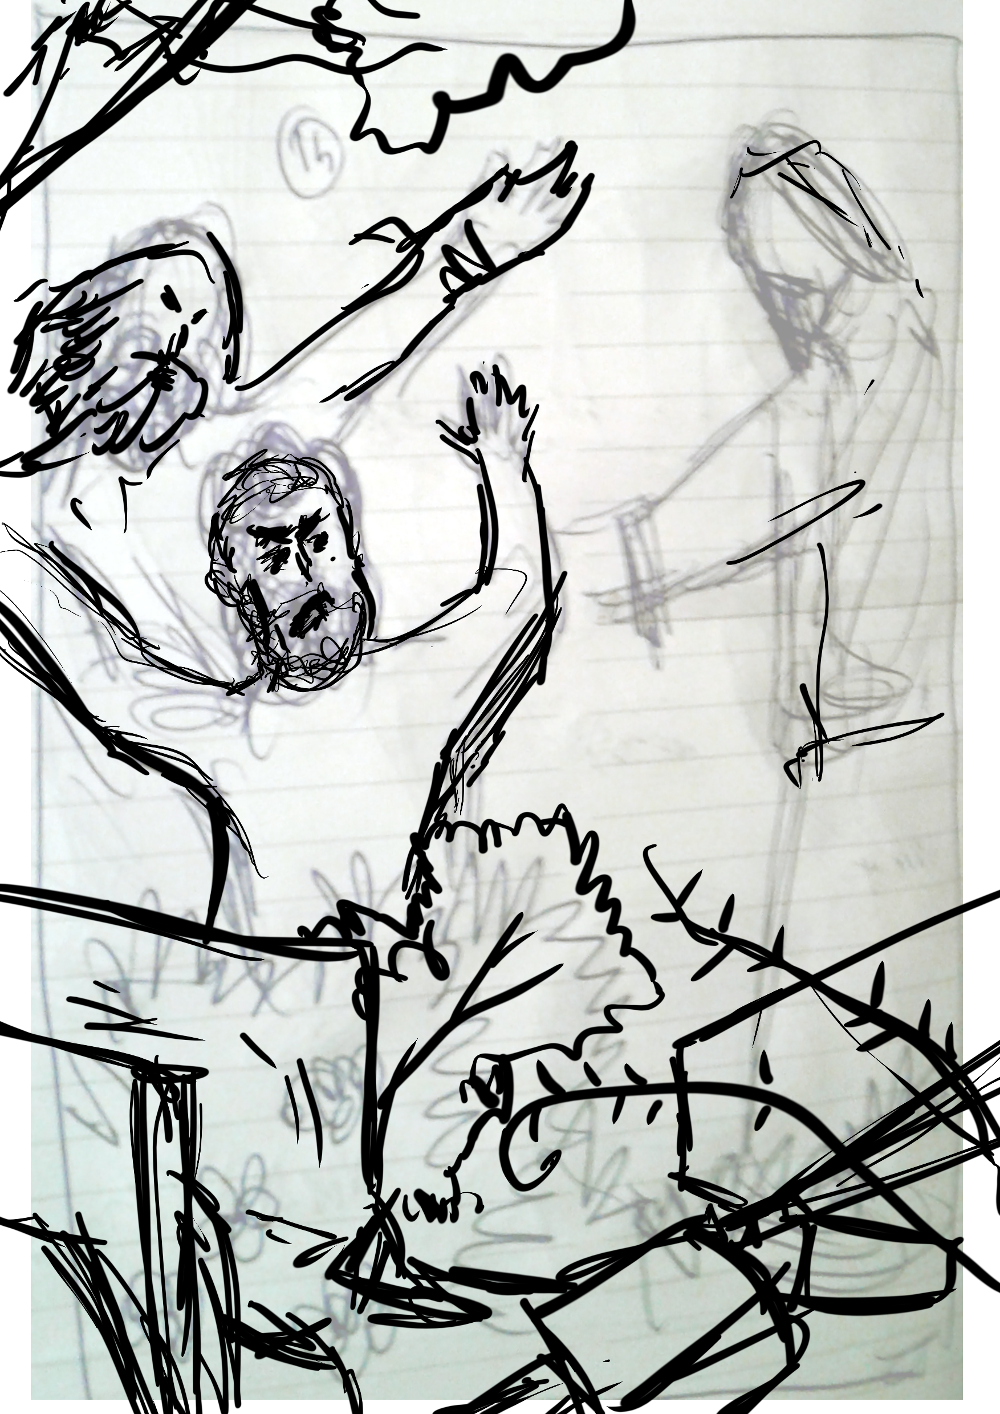
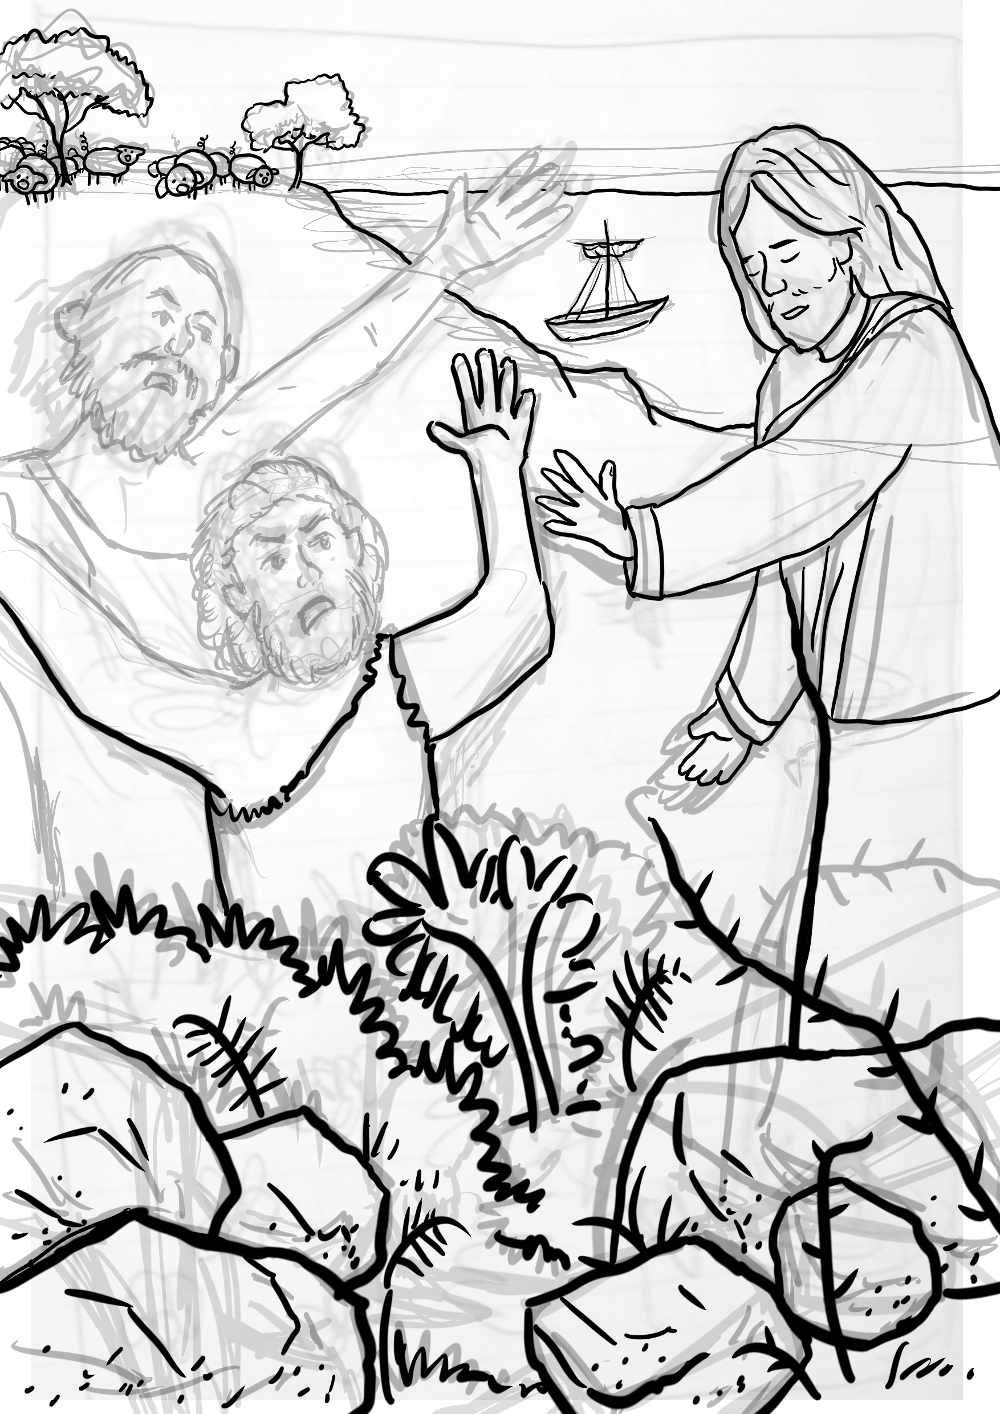
Update 14.

diff --git a/script.js b/script.js
@@ -3,7 +3,7 @@ angular.module('galleryApp', [])
     var gallery = this;
     gallery.language = "ro";
     gallery.work_start_date = new Date(2017,02,12);
-    gallery.worked_hours = 82;  // EDIT HERE
+    gallery.worked_hours = 82.5;  // EDIT HERE
 
     gallery.get_global_progress = function() {
       var index;
@@ -306,7 +306,7 @@ angular.module('galleryApp', [])
       {
         id: 14,
         img: '14.png',
-        done: 50,
+        done: 70,
         title: {
           ro: "Vindecarea celor doi îndrăciți",
           en: "Healing two demon-possessed Men"
